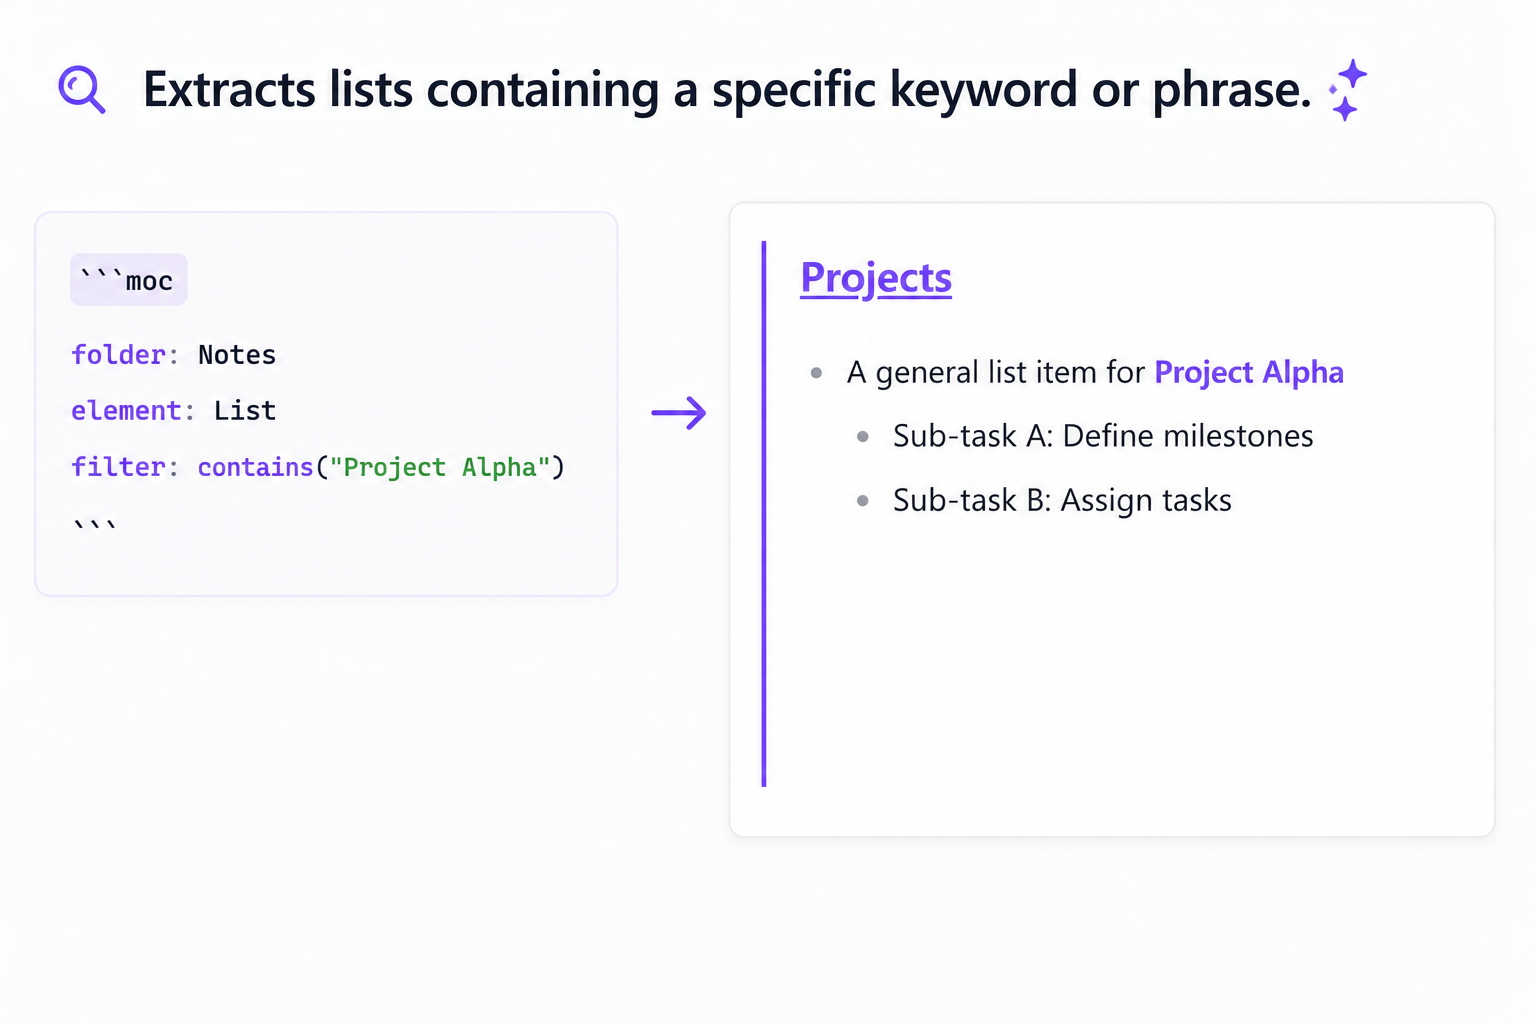
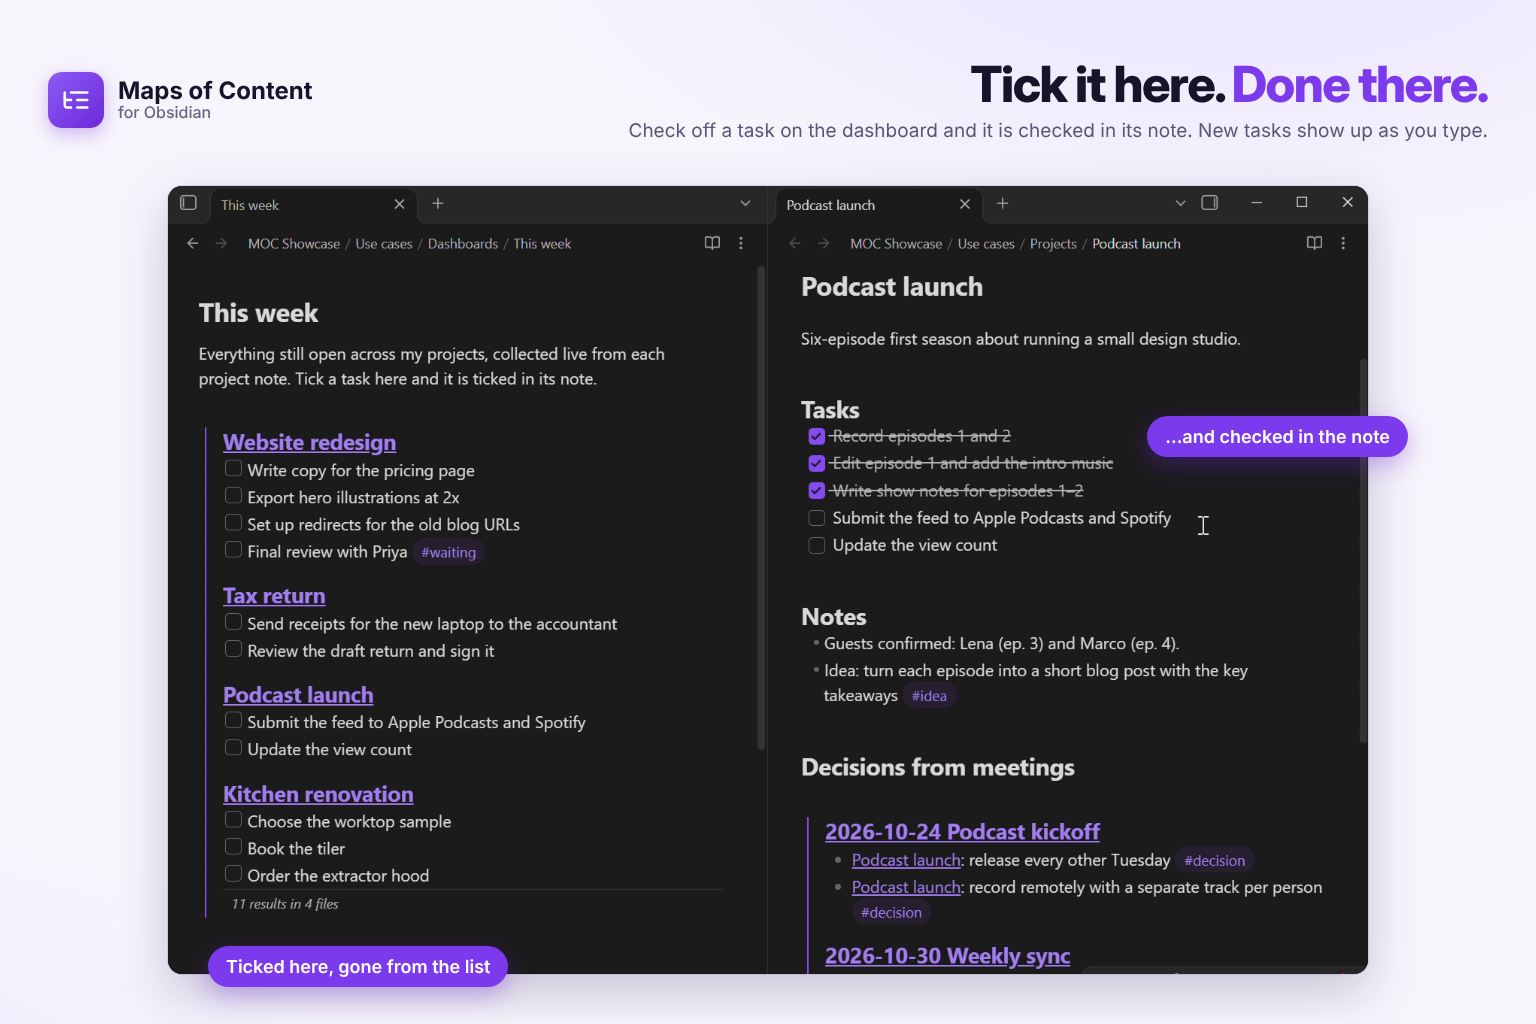
Docs: real screenshots, new store images and description
Replace the drawn mockups with captures from the Use cases showcase:
- images/ and docs-site/static/img/Showcase_1-5.png are the new store
  set (hero, indexes, tick it here, wizard, dates)
- docs-site/static/img/screens/ holds the README and docs captures
- README: hero GIF, split-view and wizard GIFs, overdue screenshot,
  docs link to docs.mkshp.dev
- Docs (current and 1.6.1): real images in intro, configuration,
  usecases and wizard; manual install path uses maps-of-content
- manifest/package description in plain words

Claude-Session: https://claude.ai/code/session_01BpY1GG6qXo9MHgxsnKfQs2

diff --git a/README.md b/README.md
@@ -1,8 +1,10 @@
 # Maps of Content
 
-Dynamically generate **Map of Content (MOC)** indexes by extracting matching elements (lists, tasks, headings, paragraphs, blockquotes) from notes in your vault — powered by a simple code block.
+Your tasks, decisions and highlights from every note, gathered on one live page. Add a `moc` code block, pick a folder, an element (tasks, lists, headings, paragraphs or quotes) and a filter, and the index keeps itself up to date.
 
-📖 **[Full documentation →](https://mkshp-dev.github.io/obsidian-MOC-plugin/)**
+📖 **[Full documentation →](https://docs.mkshp.dev/obsidian-MOC-plugin/)**
+
+![A "This week" dashboard listing open tasks from four project notes. A task is ticked and leaves the list, then the jump button opens its source note.](https://raw.githubusercontent.com/mkshp-dev/obsidian-moc-plugin/main/docs-site/static/img/screens/this-week.gif)
 
 ---
 
@@ -12,13 +14,19 @@ Dynamically generate **Map of Content (MOC)** indexes by extracting matching ele
 
 **Interactive tasks** — Tick a task checkbox in a rendered `moc` block and it updates in its source note, guarded against writing over newer edits.
 
+![Split view: ticking a task on the dashboard checks it in the project note, and a task typed in the note appears on the dashboard](https://raw.githubusercontent.com/mkshp-dev/obsidian-moc-plugin/main/docs-site/static/img/screens/tick-it-here.gif)
+
 **Jump to source** — Every matched block has a button that opens its source note at the exact line it came from.
 
 **Powerful filter DSL** — Boolean logic (`AND`, `OR`, `NOT`), text matching, tag matching, regex, and frontmatter property comparisons with full numeric/date operator support (`>`, `<`, `>=`, `<=`, `!=`).
 
 **Dates relative to now** — Filter with `{{startOfDay}}`, `{{now-24h}}`, `{{endOfWeek}}` and friends, as in `properties(due < {{startOfDay}})` for overdue items. Read dates from daily-note filenames with `file.day`, point at dated folders with `{{now:YYYY/MM}}`, and blocks move on to the new day by themselves.
 
+![An Overdue dashboard with a second block for tasks due in the next 7 days](https://raw.githubusercontent.com/mkshp-dev/obsidian-moc-plugin/main/docs-site/static/img/screens/overdue.png)
+
 **MOC Creation Wizard** — Generate `moc` blocks visually from the Command Palette. No YAML required. Date filters have presets such as **is today** and **is this week**, and the wizard checks the block before inserting it.
+
+![The wizard building a block of tasks due in the next 7 days, then the rendered result](https://raw.githubusercontent.com/mkshp-dev/obsidian-moc-plugin/main/docs-site/static/img/screens/wizard.gif)
 
 **Flexible output shaping** — Group by folder, tag, date, or any frontmatter property. Sort, and limit by notes scanned (`fileLimit`), total results (`blockLimit`) or results per note (`blocksPerFile`), with matching offsets for pagination.
 
@@ -28,7 +36,7 @@ Dynamically generate **Map of Content (MOC)** indexes by extracting matching ele
 
 **Copy & Bake** — Copy rendered Markdown to clipboard, or permanently bake a dynamic block into static Markdown in-place.
 
-**Create showcase** — Run **Maps of Content: Create showcase** from the Command Palette to generate a ready-to-explore demo folder covering every feature.
+**Create showcase** — Run **Maps of Content: Create showcase** from the Command Palette to generate a ready-to-explore demo folder covering every feature, plus a `Use cases` folder with five ready-made dashboards (This week, Overdue, Decisions log, Reading highlights, Ideas inbox).
 
 ---
 
@@ -43,7 +51,7 @@ recursive: true
 ```
 ````
 
-→ See the [full block reference](https://mkshp-dev.github.io/obsidian-MOC-plugin/) in the docs.
+→ See the [full block reference](https://docs.mkshp.dev/obsidian-MOC-plugin/) in the docs.
 
 ---
 

diff --git a/docs-site/docs/configuration.md b/docs-site/docs/configuration.md
@@ -45,17 +45,17 @@ The matching condition applied to each candidate element. Supports both primitiv
 
 - **String & text matches**:
   - `contains("term")`: Evaluates if the element text contains the specified substring (case-sensitive). (`has_word` and `has_text` are backward-compatible aliases.)
-  
-    ![Extracting lists by keyword/phrase](/img/Showcase_3.png)
 - **Regular expressions**:
   - `matches("regex_pattern")`: Evaluates the element using a regular expression match. Supports optional slash-delimited format with flags, e.g. `matches("/pattern/i")`.
 - **Tags**:
   - `has_tag("#tag")`: Evaluates if the element contains the specified hashtag (fully tag-aware, case-insensitive, and matches subtags like `#tag/subtag`).
+  
+    ![Ideas tagged #idea, gathered from journal entries and project notes with has_tag("#idea")](/img/screens/ideas-inbox.png)
 - **Tasks** (only when `element` is `Task` or `List`):
   - `is_completed()`: Matches completed tasks.
   - `is_incomplete()`: Matches incomplete tasks.
   
-    ![Extracting incomplete tasks](/img/Showcase_2.png)
+    ![Open tasks from four project notes, gathered with is_incomplete()](/img/screens/this-week.png)
 - **Frontmatter properties**:
   - `properties(key == value)`: Matches files where the frontmatter property `key` equals `value`.
   - Supported operators: `==`, `!=`, `>`, `<`, `>=`, `<=`.
@@ -68,7 +68,7 @@ The matching condition applied to each candidate element. Supports both primitiv
     - `properties(date >= "2024-01-01")`
     - `properties(due < {{startOfDay}})`
   
-    ![Filtering by frontmatter properties](/img/Showcase_4.png)
+    ![Overdue tasks and tasks due in the next 7 days, filtered on the due property](/img/screens/overdue.png)
 
 **Complex logical expressions:**
 
@@ -244,7 +244,7 @@ recursive: true
 ```
 ````
 
-![Dynamic parameters usage](/img/Showcase_5.png)
+![On the Podcast launch note, a block lists only the meeting decisions that link to it](/img/screens/decisions-from-meetings.png)
 
 ---
 

diff --git a/docs-site/versioned_docs/version-1.6.1/configuration.md b/docs-site/versioned_docs/version-1.6.1/configuration.md
@@ -45,17 +45,17 @@ The matching condition applied to each candidate element. Supports both primitiv
 
 - **String & text matches**:
   - `contains("term")`: Evaluates if the element text contains the specified substring (case-sensitive). (`has_word` and `has_text` are backward-compatible aliases.)
-  
-    ![Extracting lists by keyword/phrase](/img/Showcase_3.png)
 - **Regular expressions**:
   - `matches("regex_pattern")`: Evaluates the element using a regular expression match. Supports optional slash-delimited format with flags, e.g. `matches("/pattern/i")`.
 - **Tags**:
   - `has_tag("#tag")`: Evaluates if the element contains the specified hashtag (fully tag-aware, case-insensitive, and matches subtags like `#tag/subtag`).
+  
+    ![Ideas tagged #idea, gathered from journal entries and project notes with has_tag("#idea")](/img/screens/ideas-inbox.png)
 - **Tasks** (only when `element` is `Task` or `List`):
   - `is_completed()`: Matches completed tasks.
   - `is_incomplete()`: Matches incomplete tasks.
   
-    ![Extracting incomplete tasks](/img/Showcase_2.png)
+    ![Open tasks from four project notes, gathered with is_incomplete()](/img/screens/this-week.png)
 - **Frontmatter properties**:
   - `properties(key == value)`: Matches files where the frontmatter property `key` equals `value`.
   - Supported operators: `==`, `!=`, `>`, `<`, `>=`, `<=`.
@@ -68,7 +68,7 @@ The matching condition applied to each candidate element. Supports both primitiv
     - `properties(date >= "2024-01-01")`
     - `properties(due < {{startOfDay}})`
   
-    ![Filtering by frontmatter properties](/img/Showcase_4.png)
+    ![Overdue tasks and tasks due in the next 7 days, filtered on the due property](/img/screens/overdue.png)
 
 **Complex logical expressions:**
 
@@ -244,7 +244,7 @@ recursive: true
 ```
 ````
 
-![Dynamic parameters usage](/img/Showcase_5.png)
+![On the Podcast launch note, a block lists only the meeting decisions that link to it](/img/screens/decisions-from-meetings.png)
 
 ---
 

diff --git a/docs-site/docs/intro.md b/docs-site/docs/intro.md
@@ -11,7 +11,7 @@ Welcome to the official **Obsidian MOC Plugin** documentation.
 
 The Obsidian MOC Plugin is a smart **Map of Content** generator for [Obsidian](https://obsidian.md). It automatically organizes your notes into structured, navigable maps so you can explore your knowledge graph with ease.
 
-![Obsidian MOC Plugin Showcase](/img/Showcase_1.png)
+![A "This week" dashboard listing open tasks from four project notes. A task is ticked and leaves the list, then the jump button opens its source note.](/img/screens/this-week.gif)
 
 ## Features
 
@@ -47,7 +47,7 @@ The Obsidian MOC Plugin is a smart **Map of Content** generator for [Obsidian](h
 ### Manual installation
 
 1. Download `main.js`, `manifest.json`, and `styles.css` from the [latest release](https://github.com/mkshp-dev/obsidian-MOC-plugin/releases).
-2. Copy the files to your vault's plugin directory: `<Vault>/.obsidian/plugins/obsidian-MOC-plugin/`.
+2. Copy the files to your vault's plugin directory: `<Vault>/.obsidian/plugins/maps-of-content/`.
 3. Reload Obsidian and enable the plugin under **Settings → Community plugins**.
 
 ## Getting Started

diff --git a/docs-site/versioned_docs/version-1.6.1/intro.md b/docs-site/versioned_docs/version-1.6.1/intro.md
@@ -11,7 +11,7 @@ Welcome to the official **Obsidian MOC Plugin** documentation.
 
 The Obsidian MOC Plugin is a smart **Map of Content** generator for [Obsidian](https://obsidian.md). It automatically organizes your notes into structured, navigable maps so you can explore your knowledge graph with ease.
 
-![Obsidian MOC Plugin Showcase](/img/Showcase_1.png)
+![A "This week" dashboard listing open tasks from four project notes. A task is ticked and leaves the list, then the jump button opens its source note.](/img/screens/this-week.gif)
 
 ## Features
 
@@ -47,7 +47,7 @@ The Obsidian MOC Plugin is a smart **Map of Content** generator for [Obsidian](h
 ### Manual installation
 
 1. Download `main.js`, `manifest.json`, and `styles.css` from the [latest release](https://github.com/mkshp-dev/obsidian-MOC-plugin/releases).
-2. Copy the files to your vault's plugin directory: `<Vault>/.obsidian/plugins/obsidian-MOC-plugin/`.
+2. Copy the files to your vault's plugin directory: `<Vault>/.obsidian/plugins/maps-of-content/`.
 3. Reload Obsidian and enable the plugin under **Settings → Community plugins**.
 
 ## Getting Started

diff --git a/CHANGELOG.md b/CHANGELOG.md
@@ -7,6 +7,8 @@ and this project adheres to [Semantic Versioning](https://semver.org/spec/v2.0.0
 
 ## In-progress
 
+- **Docs: Real screenshots** — The README, docs and community store images now show the plugin itself (the Use cases dashboards, ticking a task in split view, the wizard) instead of drawn mockups. The README links to docs.mkshp.dev, the manual install path in the docs uses the plugin's folder name `maps-of-content`, and the plugin description says what it does in plain words.
+
 - **UI: Wizard layout** — The folder field is wide enough to show a full path, date presets such as 'is in the next 7 days' are no longer cut off, and the Insert block button stays in view when the wizard is taller than the window.
 
 - **Fix: Loose spacing between results** — Results sat a full blank line apart, because each one renders in its own container and the list margins inside it were not removed. They now sit as close together as a normal list.

diff --git a/docs-site/docs/wizard.md b/docs-site/docs/wizard.md
@@ -6,6 +6,8 @@ sidebar_position: 4
 
 The **MOC Creation Wizard** is an interactive, visual builder that allows you to generate dynamic Map of Content code blocks without having to write YAML syntax manually.
 
+![The wizard building a block of tasks due in the next 7 days, then the rendered result](/img/screens/wizard.gif)
+
 ## Opening the Wizard
 
 You can open the wizard in two ways:

diff --git a/docs-site/versioned_docs/version-1.6.1/wizard.md b/docs-site/versioned_docs/version-1.6.1/wizard.md
@@ -6,6 +6,8 @@ sidebar_position: 4
 
 The **MOC Creation Wizard** is an interactive, visual builder that allows you to generate dynamic Map of Content code blocks without having to write YAML syntax manually.
 
+![The wizard building a block of tasks due in the next 7 days, then the rendered result](/img/screens/wizard.gif)
+
 ## Opening the Wizard
 
 You can open the wizard in two ways:

diff --git a/docs-site/docs/usecases.md b/docs-site/docs/usecases.md
@@ -187,7 +187,8 @@ recursive: false
 ```
 ````
 
-![Dynamic parameters usage](/img/Showcase_5.png)
+![On the Podcast launch note, a block lists only the meeting decisions that link to it](/img/screens/decisions-from-meetings.png)
+
 ### Overdue tasks
 Incomplete tasks from project notes whose `due` date has passed. The block moves on to the new day by itself:
 

diff --git a/docs-site/versioned_docs/version-1.6.1/usecases.md b/docs-site/versioned_docs/version-1.6.1/usecases.md
@@ -187,7 +187,8 @@ recursive: false
 ```
 ````
 
-![Dynamic parameters usage](/img/Showcase_5.png)
+![On the Podcast launch note, a block lists only the meeting decisions that link to it](/img/screens/decisions-from-meetings.png)
+
 ### Overdue tasks
 Incomplete tasks from project notes whose `due` date has passed. The block moves on to the new day by itself:
 
